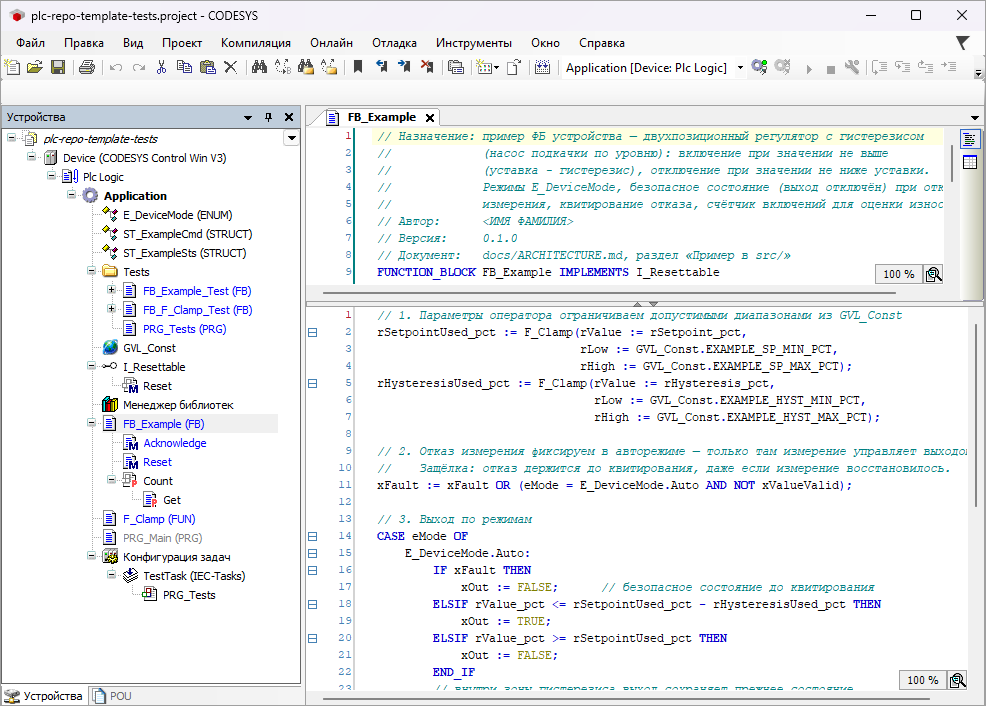
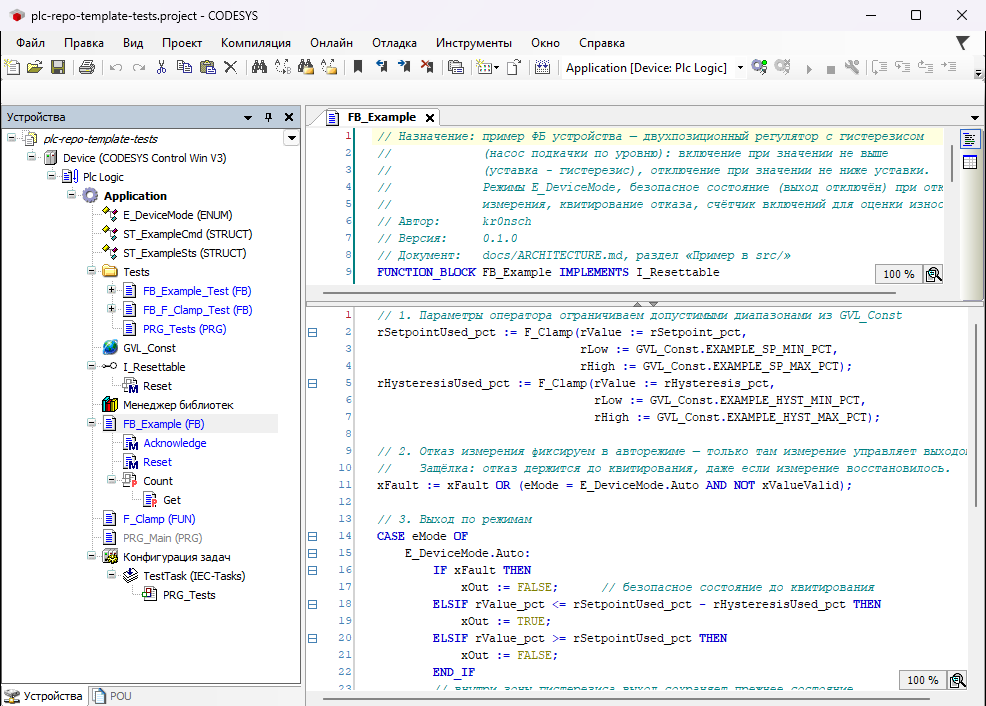
chore: подготовка к публикации — автор, ссылки портфолио, версия 1.0.0
- Автор kr0nsch вместо плейсхолдеров: LICENSE, README, CONTRIBUTING.md,
  заголовки POU, config.json (library.author), фикстуры и эталоны тестов
  инструментов
- README: бейдж CI — бейдж workflow ci.yml; подвал портфолио — ссылки
  только на опубликованные репозитории; шаг «заменить автора» для проекта
  из шаблона; демонстрация — снимок IDE переснят с новым заголовком POU
- ASSUMPTIONS D32: компания библиотеки plc-portfolio — общая для
  портфолио; версии примера — стартовые значения для проекта из шаблона
- CHANGELOG: раздел [1.0.0] - 2026-10-19
- TEST_REPORT: build, check, check --tests, test, roundtrip, library
  повторены 19.10.2026 — без ошибок и предупреждений, 18 из 18

Changed region(s): [[0.0, 0.9972, 1.0, 1.0], [0.4868, 0.3116, 0.5781, 0.3428]]

diff --git a/tools/tests/test_st_lint.py b/tools/tests/test_st_lint.py
@@ -17,7 +17,7 @@ BOM = chr(0xFEFF)
 HEADER = (
     "(*\n"
     "    Назначение: проверка линтера\n"
-    "    Автор: <ИМЯ ФАМИЛИЯ>\n"
+    "    Автор: kr0nsch\n"
     "    Версия: 1.0.0\n"
     "    Документ: docs/ARCHITECTURE.md\n"
     "*)\n"

diff --git a/docs/ASSUMPTIONS.md b/docs/ASSUMPTIONS.md
@@ -82,7 +82,7 @@ Win V3 3.5.17.30 в пользовательском процессе, 16.10.202
 | D29 | Своя ссылка-плейсхолдер — `add_placeholder` и `set_redirection` на закреплённую версию; плейсхолдеры, которые разрешает профиль (`Standard`), не перенаправляются | подтверждено | Разрешение по умолчанию своего плейсхолдера в приложении не действует (`effective_resolution` = None, «Библиотека ... не добавлена в Менеджер библиотек»), флаг `UpdateUnresolvedUnboundPlaceholders` при открытии не помогает; с перенаправлением сборка и тесты проходят. Перенаправление хранится в проекте отдельно от ссылки и переживает её удаление: новый плейсхолдер с тем же именем сразу разрешается старым перенаправлением (другой версией) — `cds.py` его переписывает (без этого повторный импорт каждый раз пересоздавал ссылку — найдено прогоном). В пуле библиотеки ссылка-плейсхолдер `Standard` не qualified-only (`TON` без `Standard.` компилируется), обычная ссылка `add_library` — qualified-only |
 | D30 | Недостающая зависимость с `build_from_repo` собирается командой `cds.py library --install` в её репозитории (перед этим — проверка версии и названия по его `config.json`), затем задание повторяется один раз | подтверждено | e2e: в проекте-потребителе без установленной библиотеки `cds.py build` собрал и установил её в соседнем репозитории и прошёл (40 с); закрепление 2.0.0.0 при версии 1.0.0.0 в соседнем репозитории — отказ без сборки, код 3. Дочерний `cds.py` запускается, когда вызывающий процесс блокировок не держит, — порядок «рабочая копия → рантайм → репозиторий библиотек» не нарушается. Соседний репозиторий без раздела `library` в `config.json` (старые `tools/codesys`) — отказ до сборки, код 3 (проверено тестом); с разделом, но без команды `library` — сообщение с кодом дочернего процесса и подсказкой обновить инструменты (не проверялось на настоящем репозитории) |
 | D31 | Рабочие копии (git worktree) независимы: свои `build/` и блокировка; общие — рантайм и репозиторий библиотек (свои глобальные блокировки); переменные рабочей копии (`CHECKOUT_ENV`) не читаются из `HKCU\Environment` и не передаются соседнему `cds.py`; учёт установок отмечает, из какой копии поставлена версия | подтверждено | Две рабочие копии шаблона (`git worktree add`): `build` параллельно (13 с обе), `test` — вторая ждала глобальную блокировку рантайма, обе 18 из 18; `library --install` одной версии — вторая ждала блокировку репозитория библиотек и предупредила, что версия была установлена из другой копии; `deps` потребителя предупредил о версии из чужой копии и об изменённых после установки исходниках. Чтение реестра для переменных рабочей копии проверено тестом (реестр в проверке не меняли) |
-| D32 | Библиотека шаблона: название `plc-repo-template`, компания `plc-portfolio`, пространство имён `TPL`, версия `0.1.0.0` (`config.json: library`) | принято | Плейсхолдер `<GITHUB_USER>` в компании невозможен: `<>` недопустимы в имени каталога репозитория библиотек. Перед публикацией заменить `plc-portfolio` на GitHub-логин; после первого релиза компанию и название не менять — по ним библиотеку находят потребители |
+| D32 | Библиотека шаблона: название `plc-repo-template`, компания `plc-portfolio`, пространство имён `TPL`, версия `0.1.0.0` (`config.json: library`) | принято | Компания `plc-portfolio` — общая для библиотек портфолио (с ней же выпущена `plc-process-lib` 1.0.0, на неё ссылаются потребители), поэтому при публикации шаблона она не заменена на GitHub-логин. В проекте из шаблона — своя компания без символов, недопустимых в имени каталога Windows (`<`, `>`, `:`, `/`, `\`, `?`, `*` и др.): это имя каталога в репозитории библиотек. Версия `0.1.0.0` и версия `0.1.0` в заголовках POU — стартовые значения для проекта из шаблона; выпуски самого шаблона (`CHANGELOG.md`, теги `vX.Y.Z`) нумеруются отдельно, библиотеку шаблона никто не потребляет. После первого релиза библиотеки компанию и название не менять — по ним библиотеку находят потребители |
 | D33 | Найденная библиотека-зависимость проверяется и по её собственным зависимостям — рекурсивно, по `ManagedLib.dependencies`; без них она считается недостающей (с `build_from_repo` — пересборка в соседнем репозитории, которая ставит и зависимости) | подтверждено | Зонд: `ManagedLib.dependencies` — массив имён ссылок библиотеки (`#Standard`, `T, 1.0.0.0 (C)`, `T, * (C)`). Ссылку с точной версией CODESYS разрешает только этой версией: библиотека A ссылается на B 1.0.0.0, установлена только B 1.1.0.0 — сборка потребителя A падает («Библиотека B, 1.0.0.0 ... не добавлена в Менеджер библиотек», C0090), а `deps --check` до исправления отвечал «всё есть». После: `deps --check` — код 1 с именем недостающей зависимости, `build` потребителя пересобрал A в её репозитории, та — B в своём, сборка 0 ошибок (цепочка из трёх репозиториев, 48 с). Плейсхолдеры не проверяются — их разрешает профиль потребителя |
 | D34 | Ссылки `library.libraries` подключаются и к проектам приложения и тестов репозитория-библиотеки (вместе с `modes.<режим>.libraries`) | подтверждено | Там компилируются те же объекты `src/`. Без этого тесты библиотеки не собирались («Неизвестный тип: 'TON'», «Для базового класса ... отсутствует определение»), а `cds.py build` проходил: сборка приложения компилирует только объекты, достижимые из задач, — неиспользуемые объекты `src/` проверяют `cds.py library` и `cds.py check` («Проверить все объекты пула», D38). После: `test` библиотеки (1 из 1) и `roundtrip` проходят, `#Standard` в приложении разрешается профилем |
 | D35 | Цикл зависимостей между репозиториями (`A` → `B` → `A`) — отказ (код 2 у процесса, который нашёл цикл, итоговый — 3); цепочку собирающих репозиториев `cds.py` передаёт дочернему процессу в `CDS_DEPS_CHAIN` | подтверждено | Без этого цикл давал бы бесконечную цепочку процессов `cds.py` и CODESYS. Проверено на двух демонстрационных репозиториях: «циклическая зависимость библиотек: a -> b -> a», 11 с, ничего не установлено |

diff --git a/README.md b/README.md
@@ -7,7 +7,7 @@
 </p>
 
 <p align="center">
-  <a href="https://github.com/<GITHUB_USER>/plc-repo-template/actions/workflows/ci.yml"><img alt="CI" src="https://img.shields.io/github/actions/workflow/status/<GITHUB_USER>/plc-repo-template/ci.yml?branch=main&style=flat-square&label=CI&labelColor=1B2736"></a>
+  <a href="https://github.com/kr0nsch/plc-repo-template/actions/workflows/ci.yml"><img alt="CI" src="https://github.com/kr0nsch/plc-repo-template/actions/workflows/ci.yml/badge.svg?branch=main"></a>
   <a href="LICENSE"><img alt="Лицензия MIT" src="https://img.shields.io/badge/license-MIT-56677D?style=flat-square&labelColor=1B2736"></a>
   <img alt="CODESYS 3.5.17" src="https://img.shields.io/badge/CODESYS-3.5.17-C2410C?style=flat-square&labelColor=1B2736">
   <img alt="IEC 61131-3" src="https://img.shields.io/badge/IEC%2061131--3-56677D?style=flat-square">
@@ -32,8 +32,10 @@
 
 ## Демонстрация
 
-Всё ниже снято на машине разработки 19.10.2026 с коммита `007d648`: Windows 11, CODESYS 3.5.17.30 и
-CODESYS Control Win V3 в пользовательском процессе. Вывод команд и окно IDE — как есть, макетов нет.
+Всё ниже снято на машине разработки 19.10.2026: Windows 11, CODESYS 3.5.17.30 и CODESYS Control Win V3
+в пользовательском процессе. Записи терминала — с коммита `007d648`, снимок IDE — с исходников версии 1.0.0
+(от `007d648` они отличаются только строкой «Автор» в заголовках POU). Вывод команд и окно IDE — как есть,
+макетов нет.
 
 <p align="center">
   <img alt="Терминал PowerShell: cds.py import --tests, build, test и roundtrip — сборка без ошибок и предупреждений, 18 из 18 тестов coUnit пройдены, экспорт совпадает с src/ и tests/ побайтно (60 файлов)" src="docs/media/demo-codesys-cycle.gif" width="900">
@@ -140,8 +142,10 @@ CODESYS Control Win V3, запущенном пользовательским п
 ## Как создать проект из шаблона
 
 1. На GitHub: **Use this template → Create a new repository**.
-2. Заменить плейсхолдеры `<ИМЯ ФАМИЛИЯ>` и `<GITHUB_USER>` (LICENSE, README, CONTRIBUTING.md, заголовки ST):
-   `git grep -n -e "<ИМЯ ФАМИЛИЯ>" -e "<GITHUB_USER>"`.
+2. Заменить автора `kr0nsch` и имя репозитория на свои (LICENSE, README — бейджи и подвал портфолио,
+   CONTRIBUTING.md, заголовки ST, `tools/codesys/config.json: library.author`):
+   `git grep -n -e kr0nsch -e plc-repo-template -- . ":!tools/tests"`. Эталоны и данные тестов
+   `tools/tests/` от автора проекта не зависят — их не трогать.
 3. Удалить пример (`FB_Example`, `ST_Example*`, константы `EXAMPLE_*`) или переименовать под задачу.
 4. Обновить `CHANGELOG.md`, `docs/ASSUMPTIONS.md` и `tools/codesys/config.json` (для библиотеки —
    раздел `library`: название, компания, версия, пространство имён). Тесты `tools/tests/` берут
@@ -207,13 +211,13 @@ CfUnit (coUnit 1.2.0.0) unit tests run in a user-mode CODESYS Control Win V3 run
 
 ## Лицензия
 
-[MIT](LICENSE) © 2026 <ИМЯ ФАМИЛИЯ>
+[MIT](LICENSE) © 2026 kr0nsch
 
 ---
 
 <p align="center"><b>Портфолио АСУ ТП</b></p>
 <table>
-<tr><td width="33%"><a href="https://github.com/<GITHUB_USER>/plc-repo-template"><b>01 · plc-repo-template</b></a><br><sub>ST в git, сборка проекта скриптом, CI</sub></td><td width="33%"><a href="https://github.com/<GITHUB_USER>/plc-process-lib">02 · plc-process-lib</a><br><sub>ФБ: AI, двигатель, ПЧ, задвижка, ПИД, тревоги</sub></td><td width="33%"><a href="https://github.com/<GITHUB_USER>/kns-pump-station">03 · kns-pump-station</a><br><sub>флагман: КНС, три насоса с ПЧ, модель, HMI</sub></td></tr>
-<tr><td width="33%"><a href="https://github.com/<GITHUB_USER>/kns-port-domestic">04 · kns-port-domestic</a><br><sub>перенос на Astra.IDE / MasterSCADA 4D</sub></td><td width="33%"><a href="https://github.com/<GITHUB_USER>/plc-iiot-stack">05 · plc-iiot-stack</a><br><sub>OPC UA / MQTT → InfluxDB → Grafana</sub></td><td width="33%"><a href="https://github.com/<GITHUB_USER>/iolistgen">06 · iolistgen</a><br><sub>перечень сигналов → ST, карты Modbus, SCADA</sub></td></tr>
-<tr><td width="33%"><a href="https://github.com/<GITHUB_USER>/plc-ci-toolkit">07 · plc-ci-toolkit</a><br><sub>линтеры, сборка CODESYS, тесты, JUnit</sub></td><td width="33%"><a href="https://github.com/<GITHUB_USER>/s7-to-codesys">08 · s7-to-codesys</a><br><sub>конвертер SCL → ST с отчётом о переносе</sub></td><td width="33%"><a href="https://github.com/<GITHUB_USER>/sis-interlock-demo">09 · sis-interlock-demo</a><br><sub>ПАЗ: MooN, матрица причин и следствий</sub></td></tr>
+<tr><td width="33%"><a href="https://github.com/kr0nsch/plc-repo-template"><b>01 · plc-repo-template</b></a><br><sub>ST в git, сборка проекта скриптом, CI</sub></td><td width="33%"><a href="https://github.com/kr0nsch/plc-process-lib">02 · plc-process-lib</a><br><sub>ФБ: AI, двигатель, ПЧ, задвижка, ПИД, тревоги</sub></td><td width="33%"><span data-repo="kns-pump-station">03 · kns-pump-station</span> <sub>(готовится)</sub><br><sub>флагман: КНС, три насоса с ПЧ, модель, HMI</sub></td></tr>
+<tr><td width="33%"><span data-repo="kns-port-domestic">04 · kns-port-domestic</span> <sub>(готовится)</sub><br><sub>перенос на Astra.IDE / MasterSCADA 4D</sub></td><td width="33%"><span data-repo="plc-iiot-stack">05 · plc-iiot-stack</span> <sub>(готовится)</sub><br><sub>OPC UA / MQTT → InfluxDB → Grafana</sub></td><td width="33%"><span data-repo="iolistgen">06 · iolistgen</span> <sub>(готовится)</sub><br><sub>перечень сигналов → ST, карты Modbus, SCADA</sub></td></tr>
+<tr><td width="33%"><a href="https://github.com/kr0nsch/plc-ci-toolkit">07 · plc-ci-toolkit</a><br><sub>линтеры, сборка CODESYS, тесты, JUnit</sub></td><td width="33%"><a href="https://github.com/kr0nsch/s7-to-codesys">08 · s7-to-codesys</a><br><sub>конвертер SCL → ST с отчётом о переносе</sub></td><td width="33%"><a href="https://github.com/kr0nsch/sis-interlock-demo">09 · sis-interlock-demo</a><br><sub>ПАЗ: MooN, матрица причин и следствий</sub></td></tr>
 </table>

diff --git a/CHANGELOG.md b/CHANGELOG.md
@@ -7,6 +7,13 @@
 
 ## [Unreleased]
 
+## [1.0.0] - 2026-10-19
+
+Первый выпуск шаблона. Проверено в CODESYS 3.5.17.30 и CODESYS Control Win V3 (пользовательский процесс):
+сборка и полная проверка компиляции без ошибок и предупреждений, 18 из 18 тестов coUnit, roundtrip без диффа
+(`docs/TEST_REPORT.md`); на ПЛК210 не проверялось. Версии примера (`0.1.0` в заголовках POU, библиотека
+`0.1.0.0`) — стартовые значения для проекта из шаблона (`docs/ASSUMPTIONS.md`, D32).
+
 ### Added
 
 - Раскладка исходников ST в `src/` и `tests/` и её формальный контракт `docs/LAYOUT.md`.
@@ -86,6 +93,8 @@
 
 ### Changed
 
+- Автор `kr0nsch` вместо плейсхолдеров в `LICENSE`, README, `CONTRIBUTING.md`, заголовках POU и
+  `config.json: library.author`; подвал портфолио в README ссылается только на опубликованные репозитории.
 - Тесты `tools/tests/test_cds.py` и `test_cds_library.py` берут настройки из эталона
   `tools/tests/fixtures/config_template.json`, а не из `config.json` репозитория: проект может менять
   свои библиотеки, задачи и библиотеку репозитория без исключения тестов шаблона (`--deselect`).

diff --git a/CONTRIBUTING.md b/CONTRIBUTING.md
@@ -1,7 +1,7 @@
 # Правила разработки
 
 ## Контекст
-- Репозиторий входит в открытое портфолио инженера АСУ ТП (<ИМЯ ФАМИЛИЯ>, github.com/<GITHUB_USER>). Читают технические руководители интеграторов, машиностроителей и вендоров ПЛК. Качество и честность важнее объёма.
+- Репозиторий входит в открытое портфолио инженера АСУ ТП (kr0nsch, github.com/kr0nsch). Читают технические руководители интеграторов, машиностроителей и вендоров ПЛК. Качество и честность важнее объёма.
 - Платформа по умолчанию: CODESYS V3.5 (3.5.17.30 — V3.5 SP17 Patch 3), целевой ПЛК — ОВЕН ПЛК210 (версию таргет-файла сверить с прошивкой). Без железа — CODESYS Control Win V3: без лицензии он работает 2 часа.
 - Отечественные среды (Astra.IDE, MasterSCADA 4D, «Полигон») — только там, где этого требует задача.
 - Путь к CODESYS — в переменной окружения `CODESYS_EXE`, профиль — в `CODESYS_PROFILE`. Если их нет, CODESYS недоступен: шаги в IDE описывай в `docs/MANUAL_STEPS.md`.

diff --git a/docs/TEST_REPORT.md b/docs/TEST_REPORT.md
@@ -59,8 +59,9 @@ _Нет._
 
 ## Сборка и полная проверка компиляции в CODESYS
 
-CODESYS 3.5.17.30, профиль `CODESYS V3.5 SP17 Patch 3`, локально, 2026-10-16. `build` компилирует
-объекты, достижимые из задач; `check` — все объекты раскладки (docs/MANUAL_STEPS.md, раздел 5).
+CODESYS 3.5.17.30, профиль `CODESYS V3.5 SP17 Patch 3`, локально, 2026-10-16; повторно 2026-10-19 перед
+выпуском 1.0.0 — те же итоги. `build` компилирует объекты, достижимые из задач; `check` — все объекты
+раскладки (docs/MANUAL_STEPS.md, раздел 5).
 
 | Команда | Итог | Примечание |
 |---|---|---|

diff --git a/tools/README.md b/tools/README.md
@@ -277,7 +277,7 @@ python tools/check/st_lint.py [пути...] [--root R] [--config FILE | --no-con
 
 ```
 // Назначение: что делает POU и в каких режимах
-// Автор:      <ИМЯ ФАМИЛИЯ>
+// Автор:      kr0nsch
 // Версия:     0.1.0
 // Документ:   docs/ARCHITECTURE.md, раздел «...»
 FUNCTION_BLOCK FB_Example
